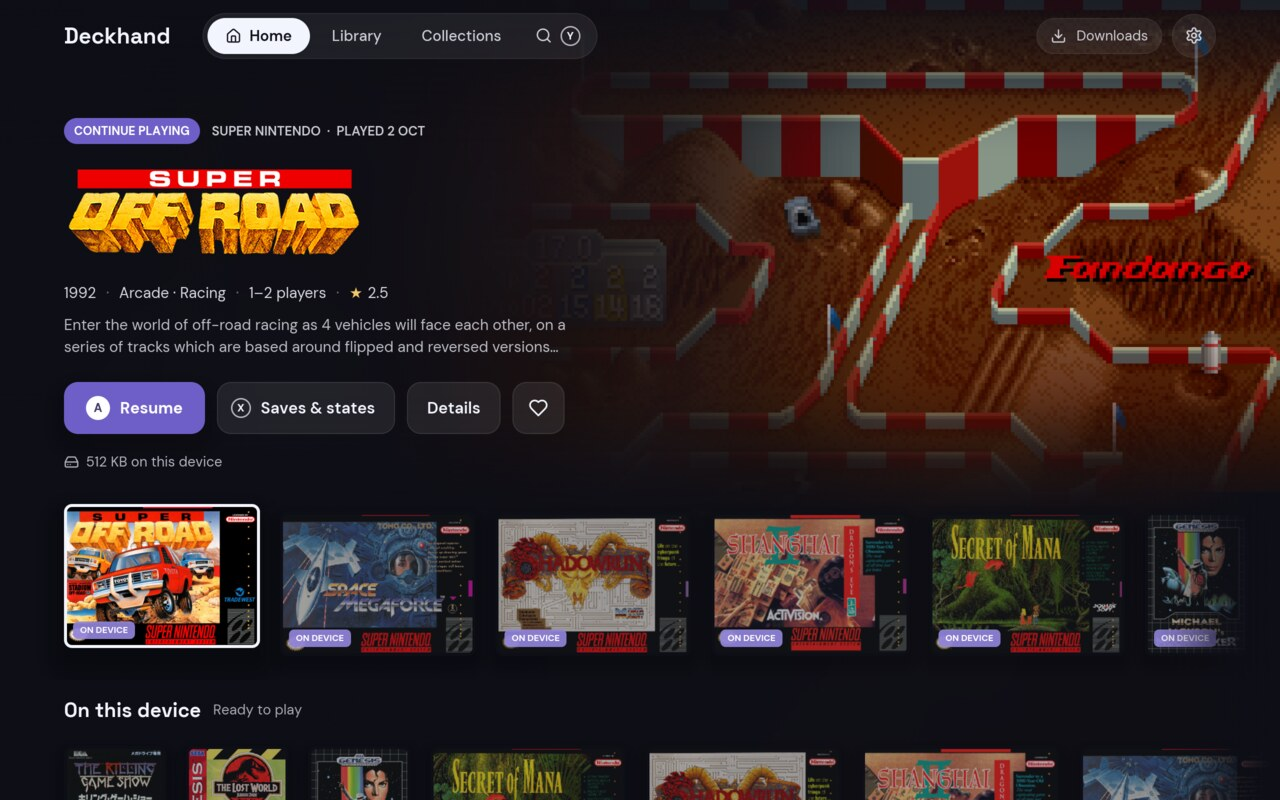
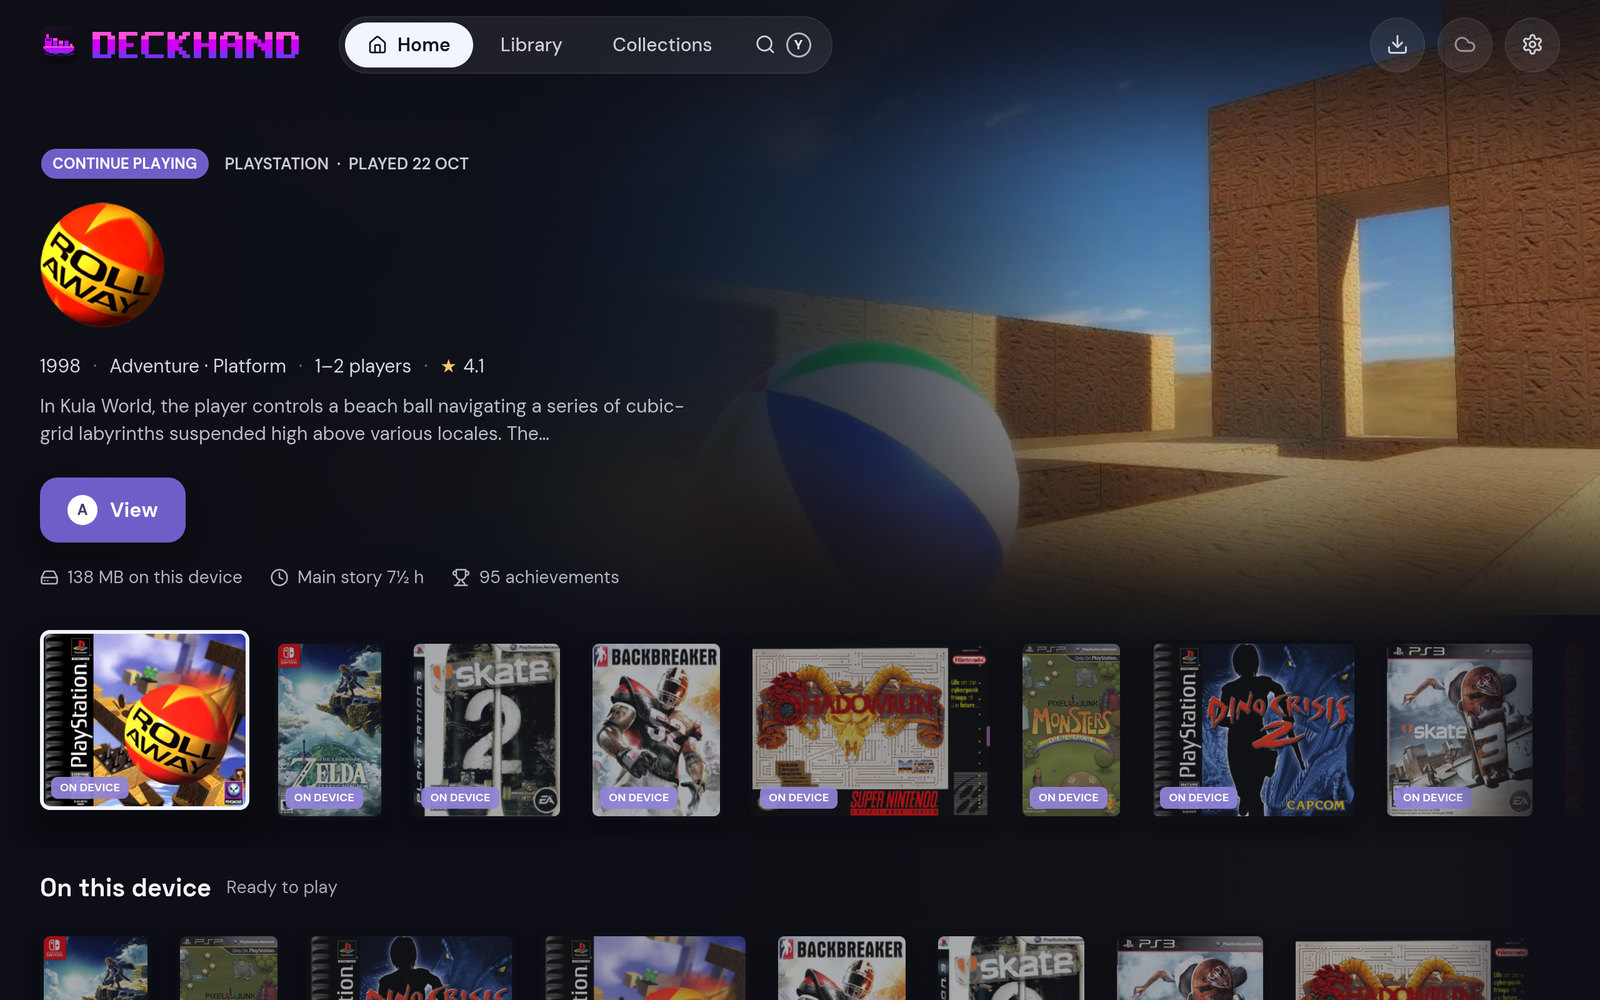
Retake the README's screenshots and cut its text to the essentials
The screenshots are of the current design: Home, the Library and a
game's page, rendered from a real library by render_readme, which now
settles each page's picture behind it and writes a 1600 px JPEG beside
each frame. The old Browse shot goes.

The text keeps what someone deciding to try Deckhand needs: what it is,
a short list of what it does, the save sync table, how to get started,
how to build, and the license. The long feature descriptions, the save
sync prose, the version check and the emulator command examples go;
the app explains those where they are set.

Closes #64

diff --git a/src/app/tests.rs b/src/app/tests.rs
@@ -1047,22 +1047,42 @@ mod render {
                 }
             }
         };
-        hydrate(&mut app);
-        app.follow_spotlight();
-        app.backdrop = settled(std::mem::take(&mut app.backdrop));
-        snapshot(&app, "readme-home");
-        for system in ["snes", "ps2", "psx"] {
+        // The art the page asks for, then its picture settled behind it, as it is once the fade is
+        // over — or none, for a game whose picture the cache has not got, rather than the last page's.
+        let settle = |app: &mut App| {
+            app.fade = Default::default();
+            hydrate(app);
+            hydrate(app);
+            app.backdrop = Default::default();
+            app.follow_spotlight();
+            app.backdrop = settled(std::mem::take(&mut app.backdrop));
+        };
+        settle(&mut app);
+        readme_shot(&app, "readme-home");
+        for system in ["snes", "ps2", "psx", "n64"] {
             let _ = app.update(Message::OpenSystem(system.into()));
             let _ = app.update(Message::Nav(Direction::Down));
-            app.fade = Default::default();
-            hydrate(&mut app);
-            snapshot(&app, &format!("readme-browse-{system}"));
+            settle(&mut app);
+            readme_shot(&app, &format!("readme-library-{system}"));
         }
         if let Some(first) = app.shelves.first().and_then(|s| s.games.first()).map(|g| g.rom_id) {
             let _ = app.update(Message::OpenDetail(first));
-            hydrate(&mut app);
-            snapshot(&app, "readme-detail");
+            settle(&mut app);
+            readme_shot(&app, "readme-game");
         }
+    }
+
+    /// [`snapshot`], and beside it a JPEG of it 1600 px wide — what the README shows, as
+    /// `screenshots/home.jpg`, `library.jpg` (the PS2 grid) and `game.jpg`.
+    fn readme_shot(app: &App, name: &str) {
+        snapshot(app, name);
+        let dir = std::env::var("DECKHAND_SNAPSHOTS").map(std::path::PathBuf::from).unwrap_or_else(|_| std::env::temp_dir());
+        let frame = image::open(dir.join(format!("{name}-wgpu.png"))).expect("the frame just written");
+        let width = 1600;
+        let height = frame.height() * width / frame.width();
+        let small = frame.resize_exact(width, height, image::imageops::FilterType::Lanczos3).to_rgb8();
+        let mut out = std::fs::File::create(dir.join(format!("{name}.jpg"))).expect("a JPEG beside it");
+        image::codecs::jpeg::JpegEncoder::new_with_quality(&mut out, 86).encode_image(&small).expect("the JPEG written");
     }
 
     #[test]

diff --git a/README.md b/README.md
@@ -6,68 +6,28 @@
 
 # Deckhand
 
-A gamepad-first companion for the [RomM](https://romm.app) ROM manager, built for the Steam Deck.
-Browse your library from the couch, download games onto the device, play them through [RetroDECK](https://retrodeck.net),
-and keep saves and save states in sync with your server.
+A gamepad-first companion for [RomM](https://romm.app) on the Steam Deck: browse your library from
+the couch, download games, play them through [RetroDECK](https://retrodeck.net), and keep your saves
+in sync.
 
 ![Home](screenshots/home.jpg)
 
+<p>
+  <img src="screenshots/library.jpg" width="49%" alt="Library">
+  <img src="screenshots/game.jpg" width="49%" alt="A game's page">
+</p>
+
 ## Features
 
-- **Pairing without a keyboard.** Scan a QR code with your phone and approve Deckhand in RomM, or
-  type a pairing code.
-- **Home.** A spotlight on the game under the cursor, starting with the last one played; press A
-  on any game to view its page, where it's played, downloaded and its saves are. Below it are
-  sections for *Continue playing*, *On this device*, your RomM *Now playing*.
-- **Library and Collections.** Every system or collection as a cover grid, with filters, sorting and
-  an A–Z jump. Your favourites and your own collections are a chip each, and RomM's genres,
-  franchises and series are browsable across systems.
-- **Search.** Ranked search across every system, by title and by other names, so `ff7` finds
-  *Final Fantasy VII*. An on-screen keyboard makes it work with a gamepad.
-- **Game pages.** Art, rating, How Long to Beat, regions and builds, and the game's
-  RetroAchievements, with the ones you have earned marked. *Favourite* marks it in RomM.
-- **Downloads.** A queue that survives restarts, unpacks archives, writes an `.m3u` for multi-disc
-  games and fetches the BIOS. A game's update and DLC come with it, and its other extras on RomM
-  (a manual, a hack, a translation) are on its page under *Extras*. Games can go to any drive (an
-  SD card, for instance), with an optional space budget. Games already in the folder are found and
-  count as downloaded. With RomM 5.4 and a QR pairing, a game can be sent to the Deck from RomM's
-  web app with *Install on device*.
-- **Playing.** Games start through [RetroDECK](https://retrodeck.net), a command of your own, or an emulator picked per
-  system, such as a PCSX2 you installed yourself. They can resume from their newest save state, and
-  *Resume from the newest state* decides that for the games Deckhand starts, whatever RetroArch's
-  own *Auto Load State* is set to. RomM 5.4's web app shows the game as being played on the Deck.
-- **Save sync.** Saves and save states sync both ways through RomM: around every launch, and while
-  the window is open, as soon as a save changes. An older save can be restored from a game's Saves
-  page, and a save state there put into a slot. See [Save sync](#save-sync) for what each system syncs.
-- **Steam and ES-DE.** Downloaded games can be added to Steam with their art, and still sync when
-  started there. Games started from ES-DE sync too, through hooks Deckhand installs. Add Deckhand
-  itself to Steam as a non-Steam game and it gives itself a cover, banner, logo and backdrop.
-- **Made for a gamepad.** The d-pad reaches every page and button, and L1/R1 move between tabs.
-- **Updates itself** from this repository's releases.
+- Pair by QR code, no keyboard needed
+- Every system and RomM collection as a cover grid, and search across them all
+- Downloads to any drive, with multi-disc games, BIOS, updates and DLC taken care of
+- Play through RetroDECK, or an emulator of your own for each system
+- Saves and save states synced both ways, around every launch and as they change
+- Add games to Steam; games started from ES-DE sync too
+- Made for a gamepad, and updates itself
 
 ## Save sync
-
-Saves go through [argosy-sigil](https://github.com/rommapp/argosy-sigil), RomM's own save library:
-it reads each game's id off its disc and finds that game's saves in the emulator's folders, even on a
-memory card every game shares. A game's saves travel as one file in its `autosave` slot, in the same
-shape RomM's Android app syncs. Saves put on RomM by earlier versions of Deckhand are read and moved
-over on each game's first sync. A client that keeps a game's save in a slot of its own, such as
-`battery`, is followed there: like RomM's web player, Deckhand goes on in whichever slot holds the
-newest version of the save, and leaves the slot it came from as it is.
-
-Save states are RetroArch's slots, one to one: slot 0, every numbered slot however many there are,
-and the auto slot are each one state on RomM, under a name that says the slot and the core. Saving
-into a slot again replaces its state on RomM, so a slot is the same on every device that runs the
-game under that core. Deckhand never deletes a save state on RomM; that is yours to do, on RomM's
-own pages, and a state deleted on either side is not brought back by the other. A state on RomM that
-is in no slot here, such as one saved in RomM's web player, can be put into one from the game's Saves
-page.
-
-A state's picture goes with it both ways, but RetroArch only takes one when its *Save State
-Thumbnails* setting is on, and RetroDECK ships it off. Deckhand offers to turn it on the first time a
-state goes up without a picture, and Settings ▸ Saves ▸ *State pictures* does it any time, while
-RetroArch is closed. An override of RetroArch's that turns them off again for a core or a game is
-named there, not edited.
 
 | Platform | Emulator | What syncs |
 |---|---|---|
@@ -84,83 +44,27 @@ named there, not edited.
 | Switch | Ryubing, Eden | ✅ Saves, each user's and the ones the console shares, which move between the two |
 | Xbox, Xbox 360 | — | ❌ Not synced yet |
 
-Neither Eden or Ryubing ships with RetroDECK, so you need to configure the one you have installed in
-*Emulator for each system* in *Settings*.
-
-Upload the Switch's `prod.keys`, `title.keys` and a firmware zip to RomM's Switch platform, and
-Deckhand puts them where that emulator reads them when a Switch game is downloaded or started. It
-lays them out the way the emulator's own installer does. Keys or firmware you installed yourself
-stay as they are, and nothing changes while the emulator runs.
-
-![Browse](screenshots/browse.jpg)
+For Switch, pick Eden or Ryubing in Settings ▸ Playing ▸ *Emulator for each system*. Keys and
+firmware uploaded to RomM's Switch platform are put in place for it.
 
 ## Getting started
 
-Download the AppImage (Linux, Steam Deck) from
-[Releases](https://github.com/mathmahan/deckhand/releases), then run it:
-
-```sh
-chmod +x Deckhand-*-x86_64.AppImage
-./Deckhand-*-x86_64.AppImage
-```
-
-You need a [RomM](https://docs.romm.app) server, 5.3 or later for QR pairing. To see which version
-yours runs:
-
-```sh
-curl -s https://romm.example.com/api/heartbeat | jq -r .SYSTEM.VERSION
-```
-
-Games play through [RetroDECK](https://retrodeck.net). Once Deckhand is paired with your RomM, it
-offers to install RetroDECK from Flathub when it isn't there, then opens it once for its own setup.
-It does the same from Settings ▸ Playing ▸ *Default emulator*, and when a game has nothing to start
-it with. To install it yourself instead, then open it once to set it up:
-
-```sh
-flatpak install flathub net.retrodeck.retrodeck
-```
-
-To assign a system its own emulator, such as a PCSX2 you installed yourself, use Settings ▸ Playing ▸
-*Emulator for each system*. Choose the emulator (a program, an AppImage, or a Flatpak) and
-Deckhand fills in the usual options for it:
-
-```sh
-# PlayStation 2, with the PCSX2 AppImage
-/home/deck/Applications/pcsx2-v2.2.0-linux-appimage-x64-Qt.AppImage -batch {rom}
-
-# GameCube, with the Dolphin Flatpak
-/var/lib/flatpak/exports/bin/org.DolphinEmu.dolphin-emu -b -e {rom}
-
-# Switch, with the Eden AppImage
-/home/deck/Applications/Eden-Linux-v0.2.0-amd64.AppImage -f -g {rom}
-```
-
-A Flatpak only sees the folders it was granted, and some are granted none of yours. So Deckhand
-starts one with access to the game's folder for that launch (`flatpak run --filesystem=…`), and a
-game on an SD card opens without a `flatpak override`.
-
-Saves sync for RetroArch, and standalone emulators: PCSX2, DuckStation, Dolphin, PPSSPP, RPCS3, Vita3K, Azahar,
-Cemu, Ryubing and Eden — see [Save sync](#save-sync).
+Download the AppImage from [Releases](https://github.com/mathmahan/deckhand/releases) and run it. You
+need a [RomM](https://docs.romm.app) server, 5.3 or later for QR pairing. Deckhand offers to install
+RetroDECK when it isn't there.
 
 ## Building
 
-Save sync is built on [argosy-sigil](https://github.com/rommapp/argosy-sigil), a C library kept as a
-git submodule, so a build needs it checked out, and CMake and a C compiler to build it:
-
 ```sh
-git submodule update --init --recursive
-cargo run                      # the app
-cargo run -- --fixtures=60     # 60 made-up games, no server needed
+git submodule update --init --recursive   # argosy-sigil: needs CMake and a C compiler
+cargo run -- --fixtures=60                # made-up games, no server needed
 cargo test
-packaging/build-appimage.sh    # AppImage, built in Docker
-packaging/build-windows.sh     # Windows .exe, cross-compiled in Docker
+packaging/build-appimage.sh
 ```
 
 ## License
 
-MIT — see [LICENSE](LICENSE). Releases up to and including 0.9.4 were published under GPL-3.0, and
-stay under it. DM Sans and Space Grotesk are under the SIL OFL 1.1
-([DM Sans](fonts/OFL.txt), [Space Grotesk](fonts/OFL-SpaceGrotesk.txt)) and the Lucide icons under
-ISC. Bundled game data is credited in [ATTRIBUTIONS.md](ATTRIBUTIONS.md). The AppImage carries the
-notices of everything built into it in `usr/share/doc/deckhand/THIRD-PARTY-LICENSES.md`, which
-[packaging/licences.sh](packaging/licences.sh) writes from `Cargo.lock` and the files above.
+MIT — see [LICENSE](LICENSE); releases up to and including 0.9.4 stay under GPL-3.0. DM Sans and
+Space Grotesk are under the SIL OFL 1.1 ([DM Sans](fonts/OFL.txt),
+[Space Grotesk](fonts/OFL-SpaceGrotesk.txt)), the Lucide icons under ISC, and bundled game data is
+credited in [ATTRIBUTIONS.md](ATTRIBUTIONS.md).
